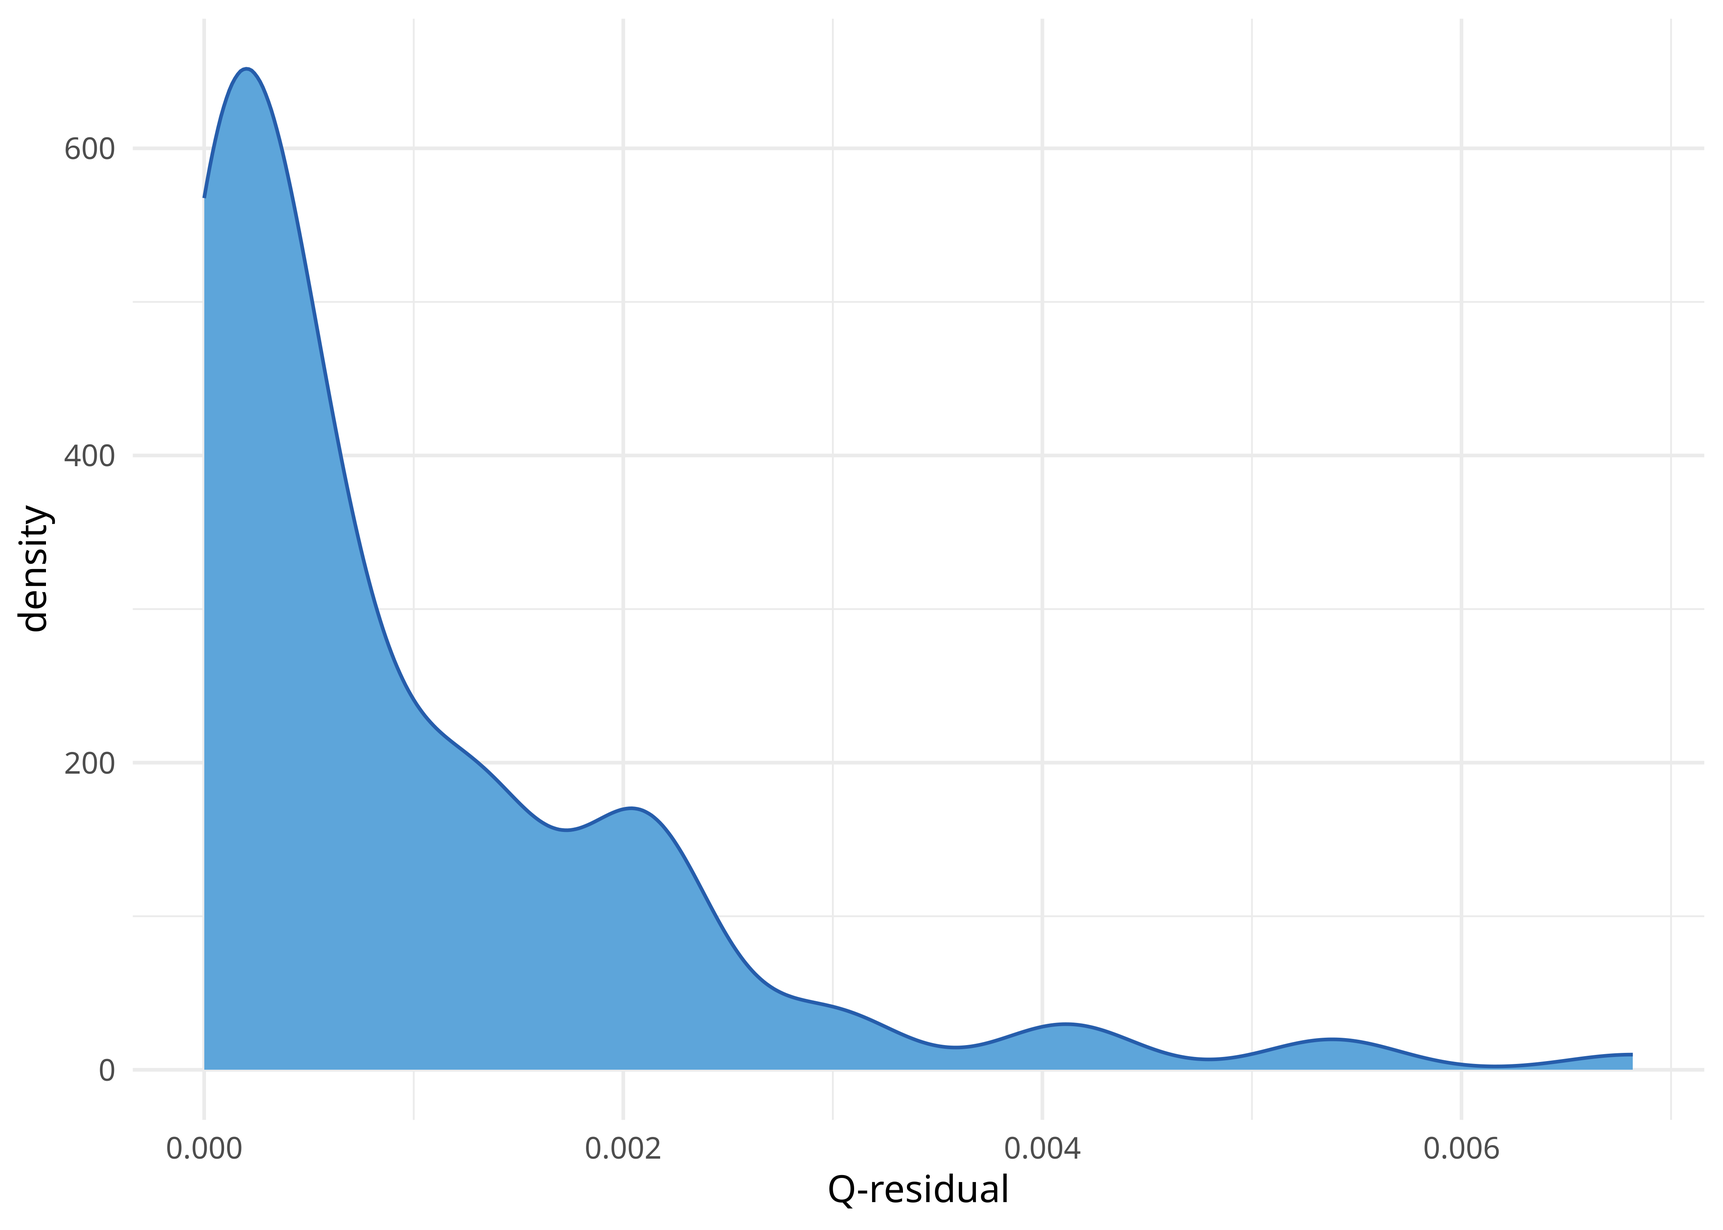
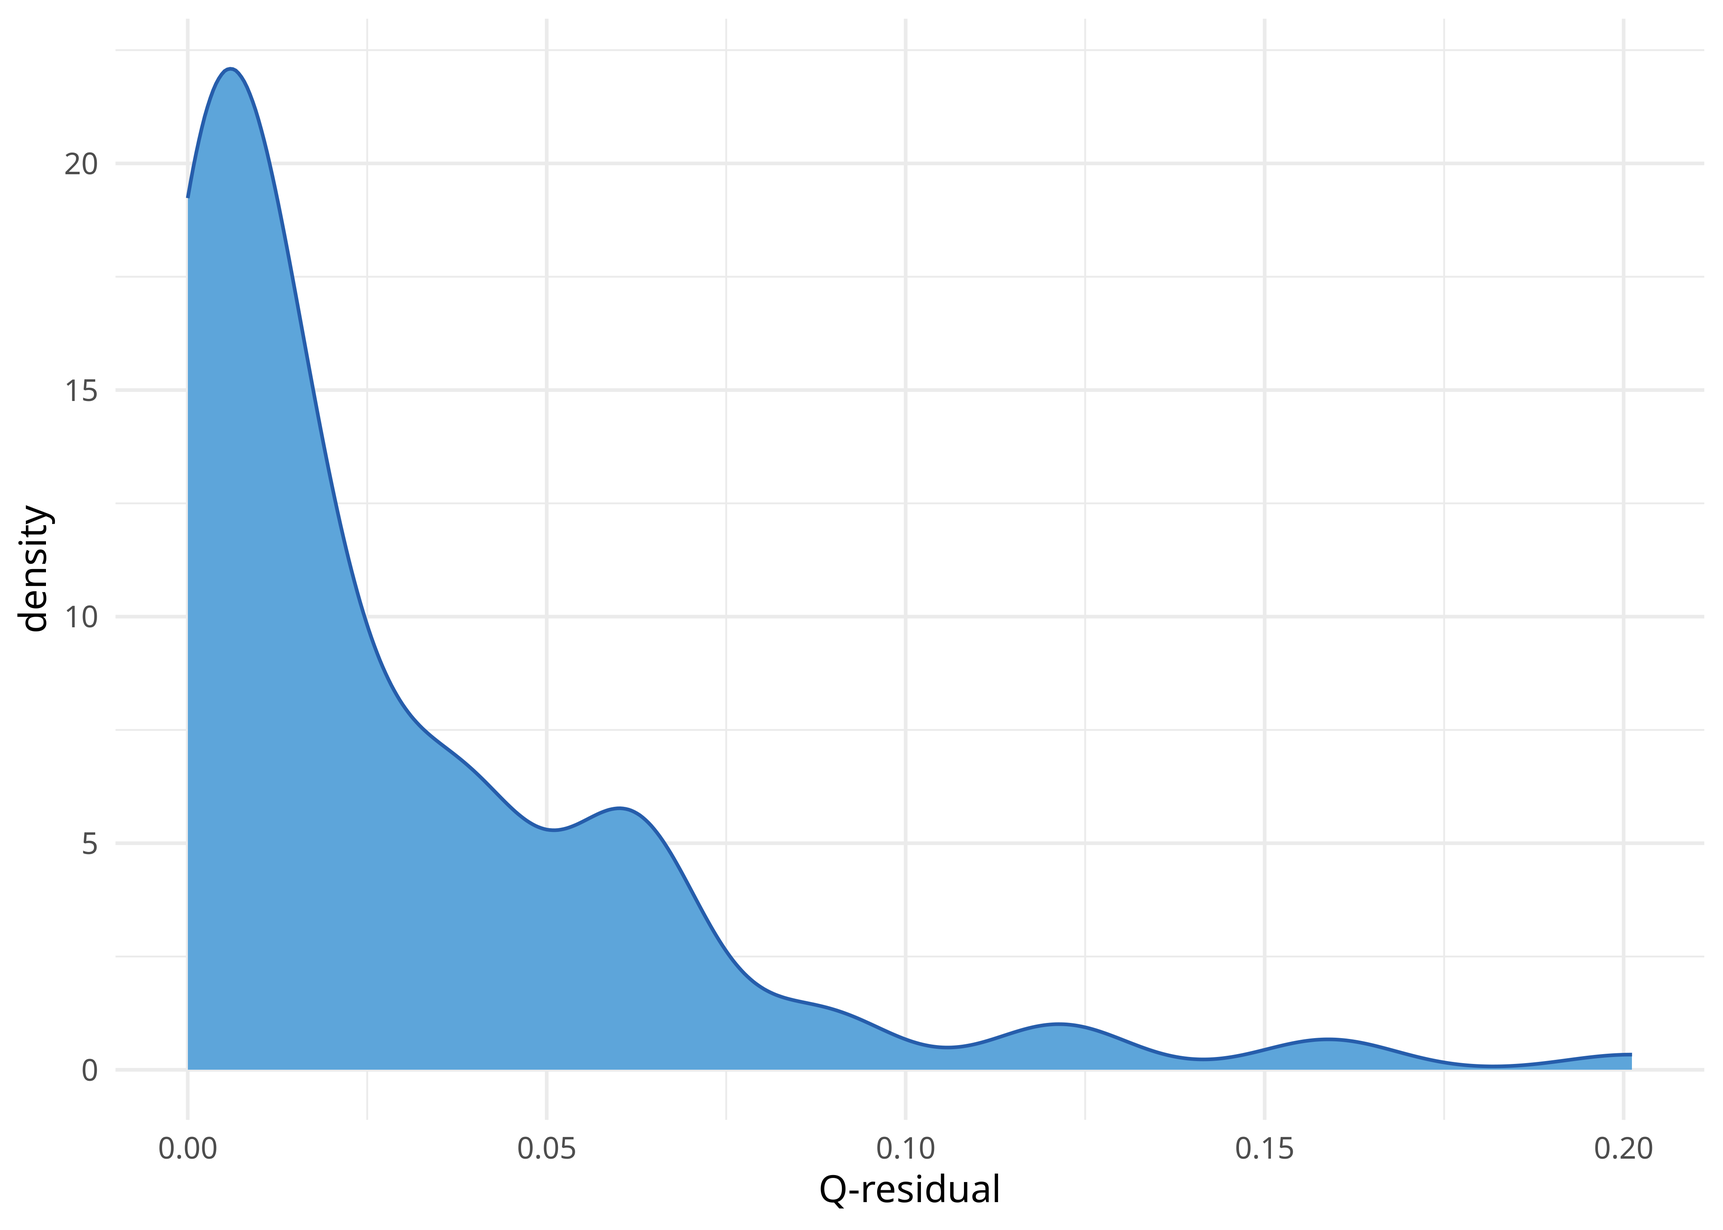
Update evaluation.html, unnamed-chunk-16-1.png, and 5 more files...

diff --git a/docs/evaluation.html b/docs/evaluation.html
@@ -377,11 +377,11 @@ $delta.bar
 <pre><code>[1] 0.3424267</code></pre>
 </div>
 </div>
-<p>Il n’est cependant pas possible de récupérer l’ensemble des scores pour les différents quartets. Il faut pour cela utiliser la fonction <code><a href="https://klausvigo.github.io/phangorn/reference/delta.score.html">delta.score()</a></code> de <code>phangorn</code>, qui a le désavantage d’utiliser <code><a href="https://klausvigo.github.io/phangorn/reference/dist.hamming.html">dist.hamming()</a></code> en interne à la place de <code><a href="https://ms609.github.io/TreeTools/reference/Hamming.html">Hamming()</a></code>. On peut cependant copier le code de la fonction <code><a href="https://klausvigo.github.io/phangorn/reference/delta.score.html">delta.score()</a></code> pour créer une nouvelle fonction faisant appel à <code><a href="https://ms609.github.io/TreeTools/reference/Hamming.html">Hamming()</a></code> et laissant le choix de la fonction de calcul du score en prévision de la suite.</p>
+<p>Il n’est cependant pas possible de récupérer l’ensemble des scores pour les différents quartets. Il faut pour cela utiliser la fonction <code><a href="https://klausvigo.github.io/phangorn/reference/delta.score.html">delta.score()</a></code> de <code>phangorn</code>, qui a le désavantage d’utiliser <code><a href="https://klausvigo.github.io/phangorn/reference/dist.hamming.html">dist.hamming()</a></code> en interne à la place de <code><a href="https://ms609.github.io/TreeTools/reference/Hamming.html">Hamming()</a></code>. On peut cependant copier le code de la fonction <code><a href="https://klausvigo.github.io/phangorn/reference/delta.score.html">delta.score()</a></code> pour créer une nouvelle fonction prennant en entrée une matrice de données et laissant le choix de la fonction de calcul du score en prévision de la suite.</p>
 <div class="cell">
-<div class="sourceCode" id="cb19"><pre class="downlit sourceCode r code-with-copy"><code class="sourceCode R"><span><span class="va">delta.score2</span> <span class="op">&lt;-</span> <span class="kw">function</span><span class="op">(</span><span class="va">x</span>, <span class="va">arg</span> <span class="op">=</span> <span class="st">"mean"</span>, <span class="va">f</span> <span class="op">=</span> <span class="fu">phangorn</span><span class="fu">:::</span><span class="va">delta.quartet</span>, <span class="va">...</span><span class="op">)</span> <span class="op">{</span></span>
-<span>  <span class="va">dist.dna</span> <span class="op">&lt;-</span> <span class="fu"><a href="https://rdrr.io/r/base/matrix.html">as.matrix</a></span><span class="op">(</span><span class="fu"><a href="https://ms609.github.io/TreeTools/reference/Hamming.html">Hamming</a></span><span class="op">(</span><span class="va">x</span>, <span class="va">...</span><span class="op">)</span><span class="op">)</span></span>
-<span>  <span class="va">all.quartets</span> <span class="op">&lt;-</span> <span class="fu"><a href="https://rdrr.io/r/base/t.html">t</a></span><span class="op">(</span><span class="fu"><a href="https://rdrr.io/r/utils/combn.html">combn</a></span><span class="op">(</span><span class="fu"><a href="https://rdrr.io/r/base/names.html">names</a></span><span class="op">(</span><span class="va">x</span><span class="op">)</span>, <span class="fl">4</span><span class="op">)</span><span class="op">)</span></span>
+<div class="sourceCode" id="cb19"><pre class="downlit sourceCode r code-with-copy"><code class="sourceCode R"><span><span class="va">delta.score2</span> <span class="op">&lt;-</span> <span class="kw">function</span><span class="op">(</span><span class="va">x</span>, <span class="va">arg</span> <span class="op">=</span> <span class="st">"mean"</span>, <span class="va">f</span> <span class="op">=</span> <span class="fu">phangorn</span><span class="fu">:::</span><span class="va">delta.quartet</span><span class="op">)</span> <span class="op">{</span></span>
+<span>  <span class="va">dist.dna</span> <span class="op">&lt;-</span> <span class="fu"><a href="https://rdrr.io/r/base/matrix.html">as.matrix</a></span><span class="op">(</span><span class="va">x</span><span class="op">)</span></span>
+<span>  <span class="va">all.quartets</span> <span class="op">&lt;-</span> <span class="fu"><a href="https://rdrr.io/r/base/t.html">t</a></span><span class="op">(</span><span class="fu"><a href="https://rdrr.io/r/utils/combn.html">combn</a></span><span class="op">(</span><span class="fu"><a href="https://rdrr.io/r/base/attributes.html">attributes</a></span><span class="op">(</span><span class="va">x</span><span class="op">)</span><span class="op">$</span><span class="va">Labels</span>, <span class="fl">4</span><span class="op">)</span><span class="op">)</span></span>
 <span>  <span class="va">delta.values</span> <span class="op">&lt;-</span> <span class="fu"><a href="https://rdrr.io/r/base/apply.html">apply</a></span><span class="op">(</span></span>
 <span>    <span class="va">all.quartets</span><span class="op">[</span>, <span class="op">]</span>, <span class="fl">1</span>, <span class="va">f</span>,</span>
 <span>    <span class="va">dist.dna</span></span>
@@ -403,7 +403,8 @@ $delta.bar
 <p>On peut alors obtenir l’ensemble des score δ et tracer son propre diagramme de distribution.</p>
 <div class="cell">
 <div class="sourceCode" id="cb20"><pre class="downlit sourceCode r code-with-copy"><code class="sourceCode R"><span><span class="kw"><a href="https://rdrr.io/r/base/library.html">library</a></span><span class="op">(</span><span class="va"><a href="https://github.com/jrnold/ggthemes">ggthemes</a></span><span class="op">)</span></span>
-<span><span class="fu">delta.score2</span><span class="op">(</span><span class="va">lx_phy</span>, <span class="st">"all"</span><span class="op">)</span></span></code><button title="Copier vers le presse-papier" class="code-copy-button"><i class="bi"></i></button></pre></div>
+<span><span class="va">lx_dist</span> <span class="op">&lt;-</span> <span class="fu"><a href="https://ms609.github.io/TreeTools/reference/Hamming.html">Hamming</a></span><span class="op">(</span><span class="va">lx_phy</span><span class="op">)</span></span>
+<span><span class="fu">delta.score2</span><span class="op">(</span><span class="va">lx_dist</span>, <span class="st">"all"</span><span class="op">)</span></span></code><button title="Copier vers le presse-papier" class="code-copy-button"><i class="bi"></i></button></pre></div>
 <div class="cell-output cell-output-stdout">
 <pre><code>  [1] 3.883439e-02 2.682001e-01 6.545383e-02 2.310903e-01 1.649283e-01
   [6] 1.678621e-01 9.566356e-01 5.664919e-01 8.387498e-01 3.829895e-01
@@ -432,15 +433,15 @@ $delta.bar
 [121] 5.949367e-01 2.178175e-04 1.679351e-01 0.000000e+00 1.767875e-01
 [126] 3.051360e-01</code></pre>
 </div>
-<div class="sourceCode" id="cb22"><pre class="downlit sourceCode r code-with-copy"><code class="sourceCode R"><span><span class="fu">delta.score2</span><span class="op">(</span><span class="va">lx_phy</span>, <span class="st">"mean"</span><span class="op">)</span></span></code><button title="Copier vers le presse-papier" class="code-copy-button"><i class="bi"></i></button></pre></div>
+<div class="sourceCode" id="cb22"><pre class="downlit sourceCode r code-with-copy"><code class="sourceCode R"><span><span class="fu">delta.score2</span><span class="op">(</span><span class="va">lx_dist</span>, <span class="st">"mean"</span><span class="op">)</span></span></code><button title="Copier vers le presse-papier" class="code-copy-button"><i class="bi"></i></button></pre></div>
 <div class="cell-output cell-output-stdout">
 <pre><code>[1] 0.3424267</code></pre>
 </div>
-<div class="sourceCode" id="cb24"><pre class="downlit sourceCode r code-with-copy"><code class="sourceCode R"><span><span class="fu">delta.score2</span><span class="op">(</span><span class="va">lx_phy</span>, <span class="st">"all"</span><span class="op">)</span> <span class="op"><a href="https://magrittr.tidyverse.org/reference/pipe.html">%&gt;%</a></span> <span class="fu"><a href="https://rdrr.io/r/base/mean.html">mean</a></span><span class="op">(</span><span class="op">)</span></span></code><button title="Copier vers le presse-papier" class="code-copy-button"><i class="bi"></i></button></pre></div>
+<div class="sourceCode" id="cb24"><pre class="downlit sourceCode r code-with-copy"><code class="sourceCode R"><span><span class="fu">delta.score2</span><span class="op">(</span><span class="va">lx_dist</span>, <span class="st">"all"</span><span class="op">)</span> <span class="op"><a href="https://magrittr.tidyverse.org/reference/pipe.html">%&gt;%</a></span> <span class="fu"><a href="https://rdrr.io/r/base/mean.html">mean</a></span><span class="op">(</span><span class="op">)</span></span></code><button title="Copier vers le presse-papier" class="code-copy-button"><i class="bi"></i></button></pre></div>
 <div class="cell-output cell-output-stdout">
 <pre><code>[1] 0.3424267</code></pre>
 </div>
-<div class="sourceCode" id="cb26"><pre class="downlit sourceCode r code-with-copy"><code class="sourceCode R"><span><span class="fu">delta.score2</span><span class="op">(</span><span class="va">lx_phy</span>, <span class="st">"all"</span><span class="op">)</span> <span class="op"><a href="https://magrittr.tidyverse.org/reference/pipe.html">%&gt;%</a></span></span>
+<div class="sourceCode" id="cb26"><pre class="downlit sourceCode r code-with-copy"><code class="sourceCode R"><span><span class="fu">delta.score2</span><span class="op">(</span><span class="va">lx_dist</span>, <span class="st">"all"</span><span class="op">)</span> <span class="op"><a href="https://magrittr.tidyverse.org/reference/pipe.html">%&gt;%</a></span></span>
 <span>  <span class="fu"><a href="https://tibble.tidyverse.org/reference/enframe.html">enframe</a></span><span class="op">(</span><span class="op">)</span> <span class="op"><a href="https://magrittr.tidyverse.org/reference/pipe.html">%&gt;%</a></span></span>
 <span>  <span class="fu"><a href="https://ggplot2.tidyverse.org/reference/ggplot.html">ggplot</a></span><span class="op">(</span><span class="fu"><a href="https://ggplot2.tidyverse.org/reference/aes.html">aes</a></span><span class="op">(</span>x <span class="op">=</span> <span class="va">value</span><span class="op">)</span><span class="op">)</span> <span class="op">+</span></span>
 <span>  <span class="fu"><a href="https://ggplot2.tidyverse.org/reference/geom_density.html">geom_density</a></span><span class="op">(</span>fill <span class="op">=</span> <span class="fu"><a href="https://rdrr.io/pkg/ggthemes/man/few_pal.html">few_pal</a></span><span class="op">(</span><span class="st">"Medium"</span><span class="op">)</span><span class="op">(</span><span class="fl">2</span><span class="op">)</span><span class="op">[</span><span class="fl">1</span><span class="op">]</span>, color <span class="op">=</span> <span class="fu"><a href="https://rdrr.io/pkg/ggthemes/man/few_pal.html">few_pal</a></span><span class="op">(</span><span class="st">"Dark"</span><span class="op">)</span><span class="op">(</span><span class="fl">2</span><span class="op">)</span><span class="op">[</span><span class="fl">1</span><span class="op">]</span><span class="op">)</span> <span class="op">+</span></span>
@@ -453,7 +454,7 @@ $delta.bar
 </section><section id="score-de-résidus-q" class="level3" data-number="4.3.2"><h3 data-number="4.3.2" class="anchored" data-anchor-id="score-de-résidus-q">
 <span class="header-section-number">4.3.2</span> Score de résidus <em>Q</em>
 </h3>
-<p>Un score alternatif calculé comme <span class="math inline">\((m_1 - m_2)^2\)</span> a également été proposé. On peut reprendre le code de la fonction cachée <code>phangorn:::delta.quartet</code> pour définir une nouvelle fonction à passer à notre <code>delta.score2()</code>.</p>
+<p>Un score alternatif calculé comme <span class="math inline">\((m_1 - m_2)^2\)</span> a également été proposé. On peut reprendre le code de la fonction cachée <code>phangorn:::delta.quartet</code> pour définir une nouvelle fonction à passer à notre <code>delta.score2()</code>. Il est nécessaire de mettre au préalable les distances à l’échelle pour que leur moyenne soit égale à 1.</p>
 <div class="cell">
 <div class="sourceCode" id="cb27"><pre class="downlit sourceCode r code-with-copy"><code class="sourceCode R"><span><span class="va">qresid.score</span> <span class="op">&lt;-</span> <span class="kw">function</span><span class="op">(</span><span class="va">quartet</span>, <span class="va">dist.dna</span><span class="op">)</span> <span class="op">{</span></span>
 <span>  <span class="va">m1</span> <span class="op">&lt;-</span> <span class="va">dist.dna</span><span class="op">[</span><span class="va">quartet</span><span class="op">[</span><span class="fl">1</span><span class="op">]</span>, <span class="va">quartet</span><span class="op">[</span><span class="fl">2</span><span class="op">]</span><span class="op">]</span> <span class="op">+</span> <span class="va">dist.dna</span><span class="op">[</span></span>
@@ -472,11 +473,12 @@ $delta.bar
 <span>  <span class="va">ret</span> <span class="op">&lt;-</span> <span class="op">(</span><span class="va">m</span><span class="op">[</span><span class="fl">1</span><span class="op">]</span> <span class="op">-</span> <span class="va">m</span><span class="op">[</span><span class="fl">2</span><span class="op">]</span><span class="op">)</span><span class="op">^</span><span class="fl">2</span></span>
 <span>  <span class="kw"><a href="https://rdrr.io/r/base/function.html">return</a></span><span class="op">(</span><span class="va">ret</span><span class="op">)</span></span>
 <span><span class="op">}</span></span>
-<span><span class="fu">delta.score2</span><span class="op">(</span><span class="va">lx_phy</span>, <span class="st">"mean"</span>, f <span class="op">=</span> <span class="va">qresid.score</span><span class="op">)</span></span></code><button title="Copier vers le presse-papier" class="code-copy-button"><i class="bi"></i></button></pre></div>
+<span><span class="va">lx_dist2</span> <span class="op">&lt;-</span> <span class="va">lx_dist</span><span class="op">/</span><span class="fu"><a href="https://rdrr.io/r/base/mean.html">mean</a></span><span class="op">(</span><span class="va">lx_dist</span><span class="op">)</span></span>
+<span><span class="fu">delta.score2</span><span class="op">(</span><span class="va">lx_dist2</span>, <span class="st">"mean"</span>, f <span class="op">=</span> <span class="va">qresid.score</span><span class="op">)</span></span></code><button title="Copier vers le presse-papier" class="code-copy-button"><i class="bi"></i></button></pre></div>
 <div class="cell-output cell-output-stdout">
-<pre><code>[1] 0.0009482182</code></pre>
+<pre><code>[1] 0.02797994</code></pre>
 </div>
-<div class="sourceCode" id="cb29"><pre class="downlit sourceCode r code-with-copy"><code class="sourceCode R"><span><span class="fu">delta.score2</span><span class="op">(</span><span class="va">lx_phy</span>, <span class="st">"all"</span>, f <span class="op">=</span> <span class="va">qresid.score</span><span class="op">)</span> <span class="op"><a href="https://magrittr.tidyverse.org/reference/pipe.html">%&gt;%</a></span></span>
+<div class="sourceCode" id="cb29"><pre class="downlit sourceCode r code-with-copy"><code class="sourceCode R"><span><span class="fu">delta.score2</span><span class="op">(</span><span class="va">lx_dist2</span>, <span class="st">"all"</span>, f <span class="op">=</span> <span class="va">qresid.score</span><span class="op">)</span> <span class="op"><a href="https://magrittr.tidyverse.org/reference/pipe.html">%&gt;%</a></span></span>
 <span>  <span class="fu"><a href="https://tibble.tidyverse.org/reference/enframe.html">enframe</a></span><span class="op">(</span><span class="op">)</span> <span class="op"><a href="https://magrittr.tidyverse.org/reference/pipe.html">%&gt;%</a></span></span>
 <span>  <span class="fu"><a href="https://ggplot2.tidyverse.org/reference/ggplot.html">ggplot</a></span><span class="op">(</span><span class="fu"><a href="https://ggplot2.tidyverse.org/reference/aes.html">aes</a></span><span class="op">(</span>x <span class="op">=</span> <span class="va">value</span><span class="op">)</span><span class="op">)</span> <span class="op">+</span></span>
 <span>  <span class="fu"><a href="https://ggplot2.tidyverse.org/reference/geom_density.html">geom_density</a></span><span class="op">(</span>fill <span class="op">=</span> <span class="fu"><a href="https://rdrr.io/pkg/ggthemes/man/few_pal.html">few_pal</a></span><span class="op">(</span><span class="st">"Medium"</span><span class="op">)</span><span class="op">(</span><span class="fl">2</span><span class="op">)</span><span class="op">[</span><span class="fl">1</span><span class="op">]</span>, color <span class="op">=</span> <span class="fu"><a href="https://rdrr.io/pkg/ggthemes/man/few_pal.html">few_pal</a></span><span class="op">(</span><span class="st">"Dark"</span><span class="op">)</span><span class="op">(</span><span class="fl">2</span><span class="op">)</span><span class="op">[</span><span class="fl">1</span><span class="op">]</span><span class="op">)</span> <span class="op">+</span></span>
@@ -488,8 +490,8 @@ $delta.bar
 </div>
 <p>On peut ensuite comparer les scores δ et les scores de résidus <em>Q</em>.</p>
 <div class="cell">
-<div class="sourceCode" id="cb30"><pre class="downlit sourceCode r code-with-copy"><code class="sourceCode R"><span><span class="va">ds</span> <span class="op">&lt;-</span> <span class="fu">delta.score2</span><span class="op">(</span><span class="va">lx_phy</span>, <span class="st">"all"</span><span class="op">)</span></span>
-<span><span class="va">qr</span> <span class="op">&lt;-</span> <span class="fu">delta.score2</span><span class="op">(</span><span class="va">lx_phy</span>, <span class="st">"all"</span>, f <span class="op">=</span> <span class="va">qresid.score</span><span class="op">)</span></span>
+<div class="sourceCode" id="cb30"><pre class="downlit sourceCode r code-with-copy"><code class="sourceCode R"><span><span class="va">ds</span> <span class="op">&lt;-</span> <span class="fu">delta.score2</span><span class="op">(</span><span class="va">lx_dist</span>, <span class="st">"all"</span><span class="op">)</span></span>
+<span><span class="va">qr</span> <span class="op">&lt;-</span> <span class="fu">delta.score2</span><span class="op">(</span><span class="va">lx_dist2</span>, <span class="st">"all"</span>, f <span class="op">=</span> <span class="va">qresid.score</span><span class="op">)</span></span>
 <span><span class="fu"><a href="https://tibble.tidyverse.org/reference/tibble.html">tibble</a></span><span class="op">(</span><span class="va">ds</span>, <span class="va">qr</span><span class="op">)</span> <span class="op"><a href="https://magrittr.tidyverse.org/reference/pipe.html">%&gt;%</a></span></span>
 <span>  <span class="fu"><a href="https://ggplot2.tidyverse.org/reference/ggplot.html">ggplot</a></span><span class="op">(</span><span class="fu"><a href="https://ggplot2.tidyverse.org/reference/aes.html">aes</a></span><span class="op">(</span>x <span class="op">=</span> <span class="va">ds</span>, y <span class="op">=</span> <span class="va">qr</span><span class="op">)</span><span class="op">)</span> <span class="op">+</span></span>
 <span>  <span class="fu"><a href="https://ggplot2.tidyverse.org/reference/geom_abline.html">geom_vline</a></span><span class="op">(</span>xintercept <span class="op">=</span> <span class="fu"><a href="https://rdrr.io/r/base/mean.html">mean</a></span><span class="op">(</span><span class="va">ds</span><span class="op">)</span>, linewidth <span class="op">=</span> <span class="fl">.4</span><span class="op">)</span> <span class="op">+</span></span>
@@ -518,7 +520,7 @@ $delta.bar
 
 <div data-pagedtable="false">
   <script data-pagedtable-source="" type="application/json">
-{"columns":[{"label":["taxon"],"name":[1],"type":["chr"],"align":["left"]},{"label":["ds"],"name":[2],"type":["dbl"],"align":["right"]},{"label":["qr"],"name":[3],"type":["dbl"],"align":["right"]}],"data":[{"1":"Vert","2":"0.2905615","3":"0.0008843510"},{"1":"Cyan","2":"0.3017785","3":"0.0008600914"},{"1":"Orange","2":"0.3197053","3":"0.0009087031"},{"1":"Indigo","2":"0.3198701","3":"0.0010608753"},{"1":"Violet","2":"0.3279005","3":"0.0008342428"},{"1":"Magenta","2":"0.3394789","3":"0.0008381128"},{"1":"Rouge","2":"0.3465301","3":"0.0007276758"},{"1":"Bleu","2":"0.4130480","3":"0.0010472507"},{"1":"Jaune","2":"0.4229674","3":"0.0013726613"}],"options":{"columns":{"min":{},"max":[10]},"rows":{"min":[10],"max":[10]},"pages":{}}}
+{"columns":[{"label":["taxon"],"name":[1],"type":["chr"],"align":["left"]},{"label":["ds"],"name":[2],"type":["dbl"],"align":["right"]},{"label":["qr"],"name":[3],"type":["dbl"],"align":["right"]}],"data":[{"1":"Vert","2":"0.2905615","3":"0.02609535"},{"1":"Cyan","2":"0.3017785","3":"0.02537950"},{"1":"Orange","2":"0.3197053","3":"0.02681393"},{"1":"Indigo","2":"0.3198701","3":"0.03130421"},{"1":"Violet","2":"0.3279005","3":"0.02461676"},{"1":"Magenta","2":"0.3394789","3":"0.02473096"},{"1":"Rouge","2":"0.3465301","3":"0.02147219"},{"1":"Bleu","2":"0.4130480","3":"0.03090218"},{"1":"Jaune","2":"0.4229674","3":"0.04050437"}],"options":{"columns":{"min":{},"max":[10]},"rows":{"min":[10],"max":[10]},"pages":{}}}
   </script>
 </div>
 </div>
